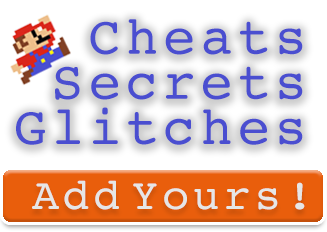
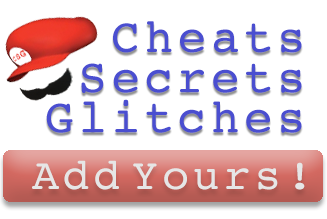
Add h1 for accessibility. Change graphic to be more attractive.

diff --git a/MIU/behan_michael_project1/index.html b/MIU/behan_michael_project1/index.html
@@ -20,6 +20,9 @@
 </head>
 <body class="index">
     <section id="feature">
+        <header>
+            <h1>Cheats, Serets, Glitches</h1>
+        </header>
         <a href="addItem.html"><img src="img/index-cta.png" alt="Cheats, Secrets, Glitches - Add yours!"></a>
     </section>
 

diff --git a/MIU/behan_michael_project1/css/style.css b/MIU/behan_michael_project1/css/style.css
@@ -21,6 +21,11 @@ body.index {
     background-color: rgb(230, 230, 230);
 }
 
+body.index #feature h1 {
+    position: absolute;
+    left: -1000px;
+}
+
 body.index #feature img {
     display: block;
     width: 315px;
